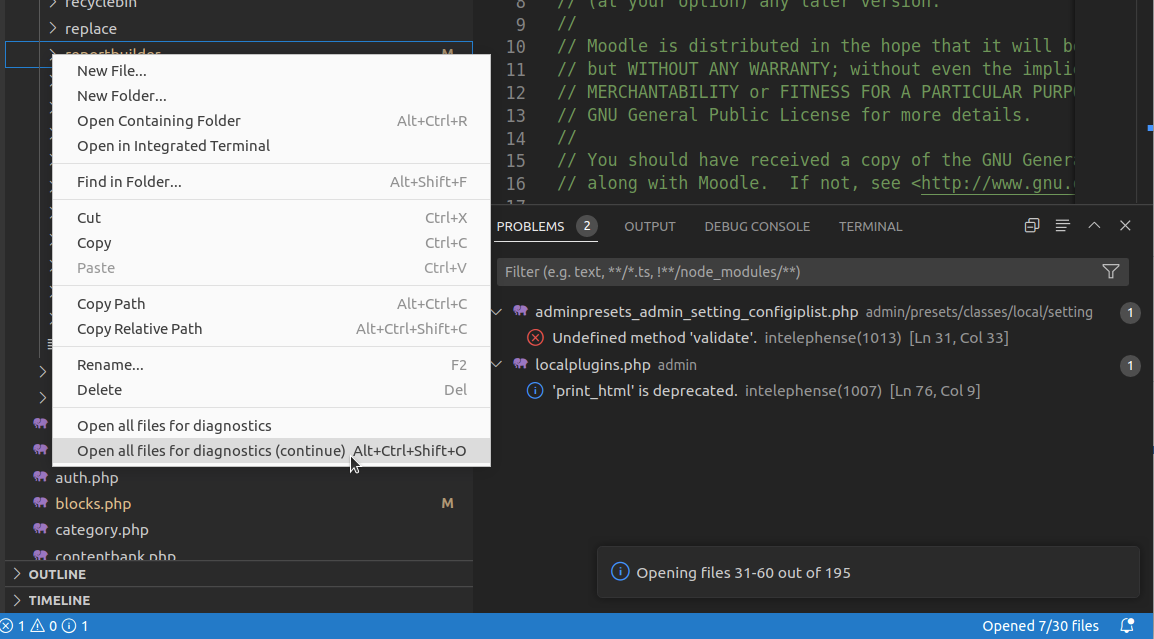
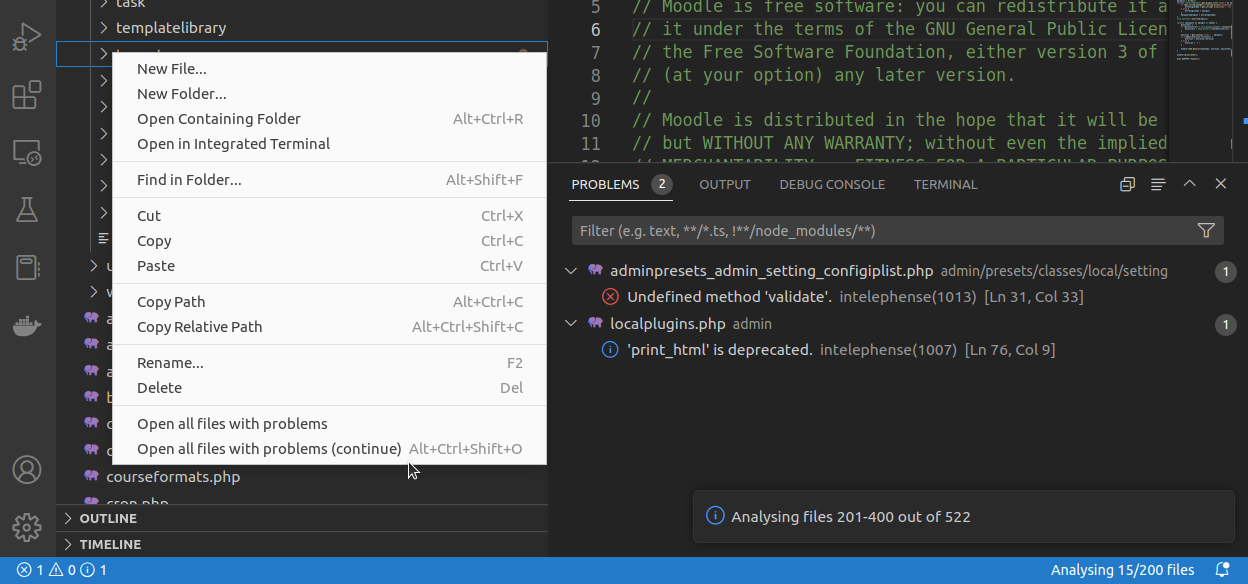
v1.0.1 open only files with problems

Changed region(s): [[0.0, 0.0, 1.0, 1.0], [0.5303, 0.863, 0.7799, 0.9247]]

diff --git a/src/extension.ts b/src/extension.ts
@@ -1,9 +1,10 @@
-import { ExtensionContext, StatusBarAlignment, StatusBarItem, Uri, commands, window, workspace } from 'vscode';
+import { ExtensionContext, StatusBarAlignment, StatusBarItem, Uri, commands, languages, window, workspace } from 'vscode';
 import { readDirectoryRecursively } from './fileutil';
 
 let myStatusBarItem: StatusBarItem;
 let lastFolder:Uri|null = null;
 let lastFolderIndex:number = 0;
+let globWatchedFiles:{[key: string]:Array<Uri>} = {};
 
 export function activate(context: ExtensionContext) {
 
@@ -17,9 +18,28 @@ export function activate(context: ExtensionContext) {
 
   myStatusBarItem = window.createStatusBarItem(StatusBarAlignment.Right, 100);
   context.subscriptions.push(myStatusBarItem);
+
+  languages.onDidChangeDiagnostics((e) => {
+    const maxSeverityLevel = (workspace.getConfiguration().get<number>('bulkProblemDiagnostics.maxSeverityLevel') ?? 2);
+    const search = (workspace.getConfiguration().get<string>('bulkProblemDiagnostics.errorMessageMatch') ?? '');
+    e.uris.filter(isWatched).forEach(uri => {
+      const diag = languages.getDiagnostics(uri)
+        .filter(d => d.severity < maxSeverityLevel && (!search.length || d.message.includes(search)));
+      diag.length && commands.executeCommand('vscode.open', uri);
+    });
+  });
 }
 
 export function deactivate() {}
+
+function isWatched(uri:Uri) {
+  for (let key in globWatchedFiles) {
+    for (let u of globWatchedFiles[key]) {
+      if (u.path === uri.path) { return true; }
+    }
+  }
+  return false;
+}
 
 function setLastFolder(uri:Uri|null, idx:number = 0) {
   if (uri) {
@@ -47,7 +67,7 @@ async function openAllFiles(uri:Uri, continueLastFolder:boolean=false) {
   myStatusBarItem.text = `Retrieving all folder files...`;
   myStatusBarItem.show();
 
-  const maxFiles = (workspace.getConfiguration().get<number>('bulkProblemDiagnostics.filesLimit') ?? 30);
+  const maxFiles = (workspace.getConfiguration().get<number>('bulkProblemDiagnostics.filesLimit') ?? 200);
   let files:Array<Uri> = await readDirectoryRecursively(uri.fsPath),
       firstIndex = 0, lastIndex = Math.min(maxFiles, files.length);
 
@@ -63,25 +83,27 @@ async function openAllFiles(uri:Uri, continueLastFolder:boolean=false) {
     }
   }
   if (files.length > maxFiles || firstIndex > 0) {
-    window.showInformationMessage(`Opening files ${firstIndex + 1}-${lastIndex} out of ${files.length}`);
+    window.showInformationMessage(`Analysing files ${firstIndex + 1}-${lastIndex} out of ${files.length}`);
   }
   setLastFolder(files.length > lastIndex ? uri : null, lastIndex);
 
-  const diagnOnly:boolean = workspace.getConfiguration().get<boolean>('bulkProblemDiagnostics.openForDiagnosticsOnly') ?? false;
-  const delay:number = workspace.getConfiguration().get<number>('bulkProblemDiagnostics.delay') ?? 200;
-  for (let i = firstIndex; i < lastIndex; i++) {
+  const delay:number = workspace.getConfiguration().get<number>('bulkProblemDiagnostics.delay') ?? 100;
+  let watchedList = [];
+  for (let j = firstIndex; j < lastIndex; j++) {
+    watchedList.push(files[j]);
+  }
+  const watchKey = (Math.random() + 1).toString(36).substring(7);
+  globWatchedFiles[watchKey] = watchedList;
+  for (let i = 0; i < watchedList.length; i++) {
     try {
-      if (diagnOnly) {
-        await workspace.openTextDocument(files[i]);
-      } else {
-        await commands.executeCommand('vscode.open', files[i]);
-      }
-      myStatusBarItem.text = `Opened ${i-firstIndex+1}/${lastIndex-firstIndex} files`;
+      await workspace.openTextDocument(watchedList[i]);
+      myStatusBarItem.text = `Analysing ${i+1}/${lastIndex-firstIndex} files`;
       delay > 0 && await sleep(delay);
     } catch (e) {
       console.error(e);
     };
   }
+  setTimeout(() => { delete globWatchedFiles[watchKey]; }, 15000);
 
   myStatusBarItem.hide();
 }

diff --git a/README.md b/README.md
@@ -2,39 +2,36 @@
 
 # VS Code extension "Bulk Problem Diagnostics"
 
-Opens all files in a folder and all subfolders recursively in order to
-review problems. Splits large number of files in batches to prevent unloading.
+Opens all files with problems in a folder. Splits large number of files in batches to prevent unloading.
 
 Inspired by the issue:
 https://github.com/microsoft/vscode/issues/13953
 
 ## Using the extension to review diagnostics
 
-This extension is essential for reviewing problems on big projects. VS Code
+This extension is essential for reviewing problems in big projects. VS Code
 only shows diagnostics for the opened files and automatically unloads files
 and removes them from Problems view when too many files are open.
 
 - Open "Problems" view (Ctrl+Shift+M)
-- Right click on a folder in Explorer and choose "Open all files for dianostics",
-  this will open first 30 files
+- Right click on a folder in Explorer and choose "Open all files with problems",
+  this will analyse first 200 files and open the ones that have problems
 - Review the detected problems, make changes as needed
-- Close all open files (Ctrl+K W)
-- Right click on the folder again and choose "Open all files for diagnostics (continue)"
-  or just press `Alt+Ctrl+Shift+O`, this will open the next batch of files
+- Close all open files (Ctrl+K W) if needed
+- Right click on the folder again and choose "Open all files with problems (continue)"
+  or just press `Alt+Ctrl+Shift+O`, this will analyse the next batch of files
 - Rinse and repeat
-
-When using this extension for diagnostics you can adjust some settings, for example:
-increase the delay between opening new files and choosing not to open them in an editor.
 
 ![Example](https://raw.githubusercontent.com/marinaglancy/vscode-bulk-problem-diagnostics/master/media/bulk-problem-diagnostics.png)
 
 ### Extension settings
 
-| Setting                            | Description                                                                                                                                                     | Default                                   |
-|------------------------------------|-----------------------------------------------------------------------------------------------------------------------------------------------------------------|-------------------------------------------|
-| Files Limit                        | Maximum number of files to open in one operation. If the folder has more files, the next command execution will start from where it finished last time.         | 30                                        |
-| Open Files                         | Files to open. Examples: ```**``` - all files, ```**/*.{php,js}``` - only PHP and JS files",                                                                    | **                                        |
-| Exclude Files                      | Configure glob patterns to exclude certain files and folders from opening. Relative paths are calculated from the workspace root (not the folder being opened). | ```**/.git/**, **/node_modules/**, ...``` |
-| Auto Exclude Framework Suggestions | Automatically detect other files to exclude for some common projects or frameworks                                                                              | true                                      |
-| Delay                              | Delay (in ms) between opening files to allow diagnostics to catch up with the newly loaded files                                                                | 200                                       |
-| Open For Diagnostics Only          | Open files for diagnostics only, do not show in editor. The 'Problems' view will display all problems found in these files.                                     | false                                     |
+| Setting | Description | Default |
+|---|---|---|
+| Files Limit | Maximum number of files to analyse in one operation. If the folder has more files, the next command execution will start from where it finished last time. | 200 |
+| Open Files | Files to analyse. Examples: '**' - all files, '**/*.{php,js}' - only PHP and JS files | ** |
+| Exclude Files | Configure glob patterns to exclude certain files and folders from analysing. Relative paths are calculated from the workspace root (not the folder being analysed). | ```**/.git/**, **/node_modules/**, ...``` |
+| Auto Exclude Framework Suggestions | Automatically detect other files to exclude for some common projects or frameworks | true |
+| Delay | Delay (in ms) between analysing files to allow diagnostics to catch up with the newly loaded files | 100 |
+| Max Severity Level | Maximum problem severity level, file will only be open if it contains problems of this or lower levels (1 - errors, 2 - warnings, 3 - notices) | 2 |
+| Error Message Match | If specified, will only open files that have problems that match this setting |  |

diff --git a/CHANGELOG.md b/CHANGELOG.md
@@ -2,6 +2,11 @@
 
 All notable changes to the "Bulk Problem Diagnostics" extension will be documented in this file.
 
-## [1.0]
+## [1.0.1]
+
+- Open only files with problems
+- Added settings to match problems severity and error message
+
+## [1.0.0]
 
 - Initial release
